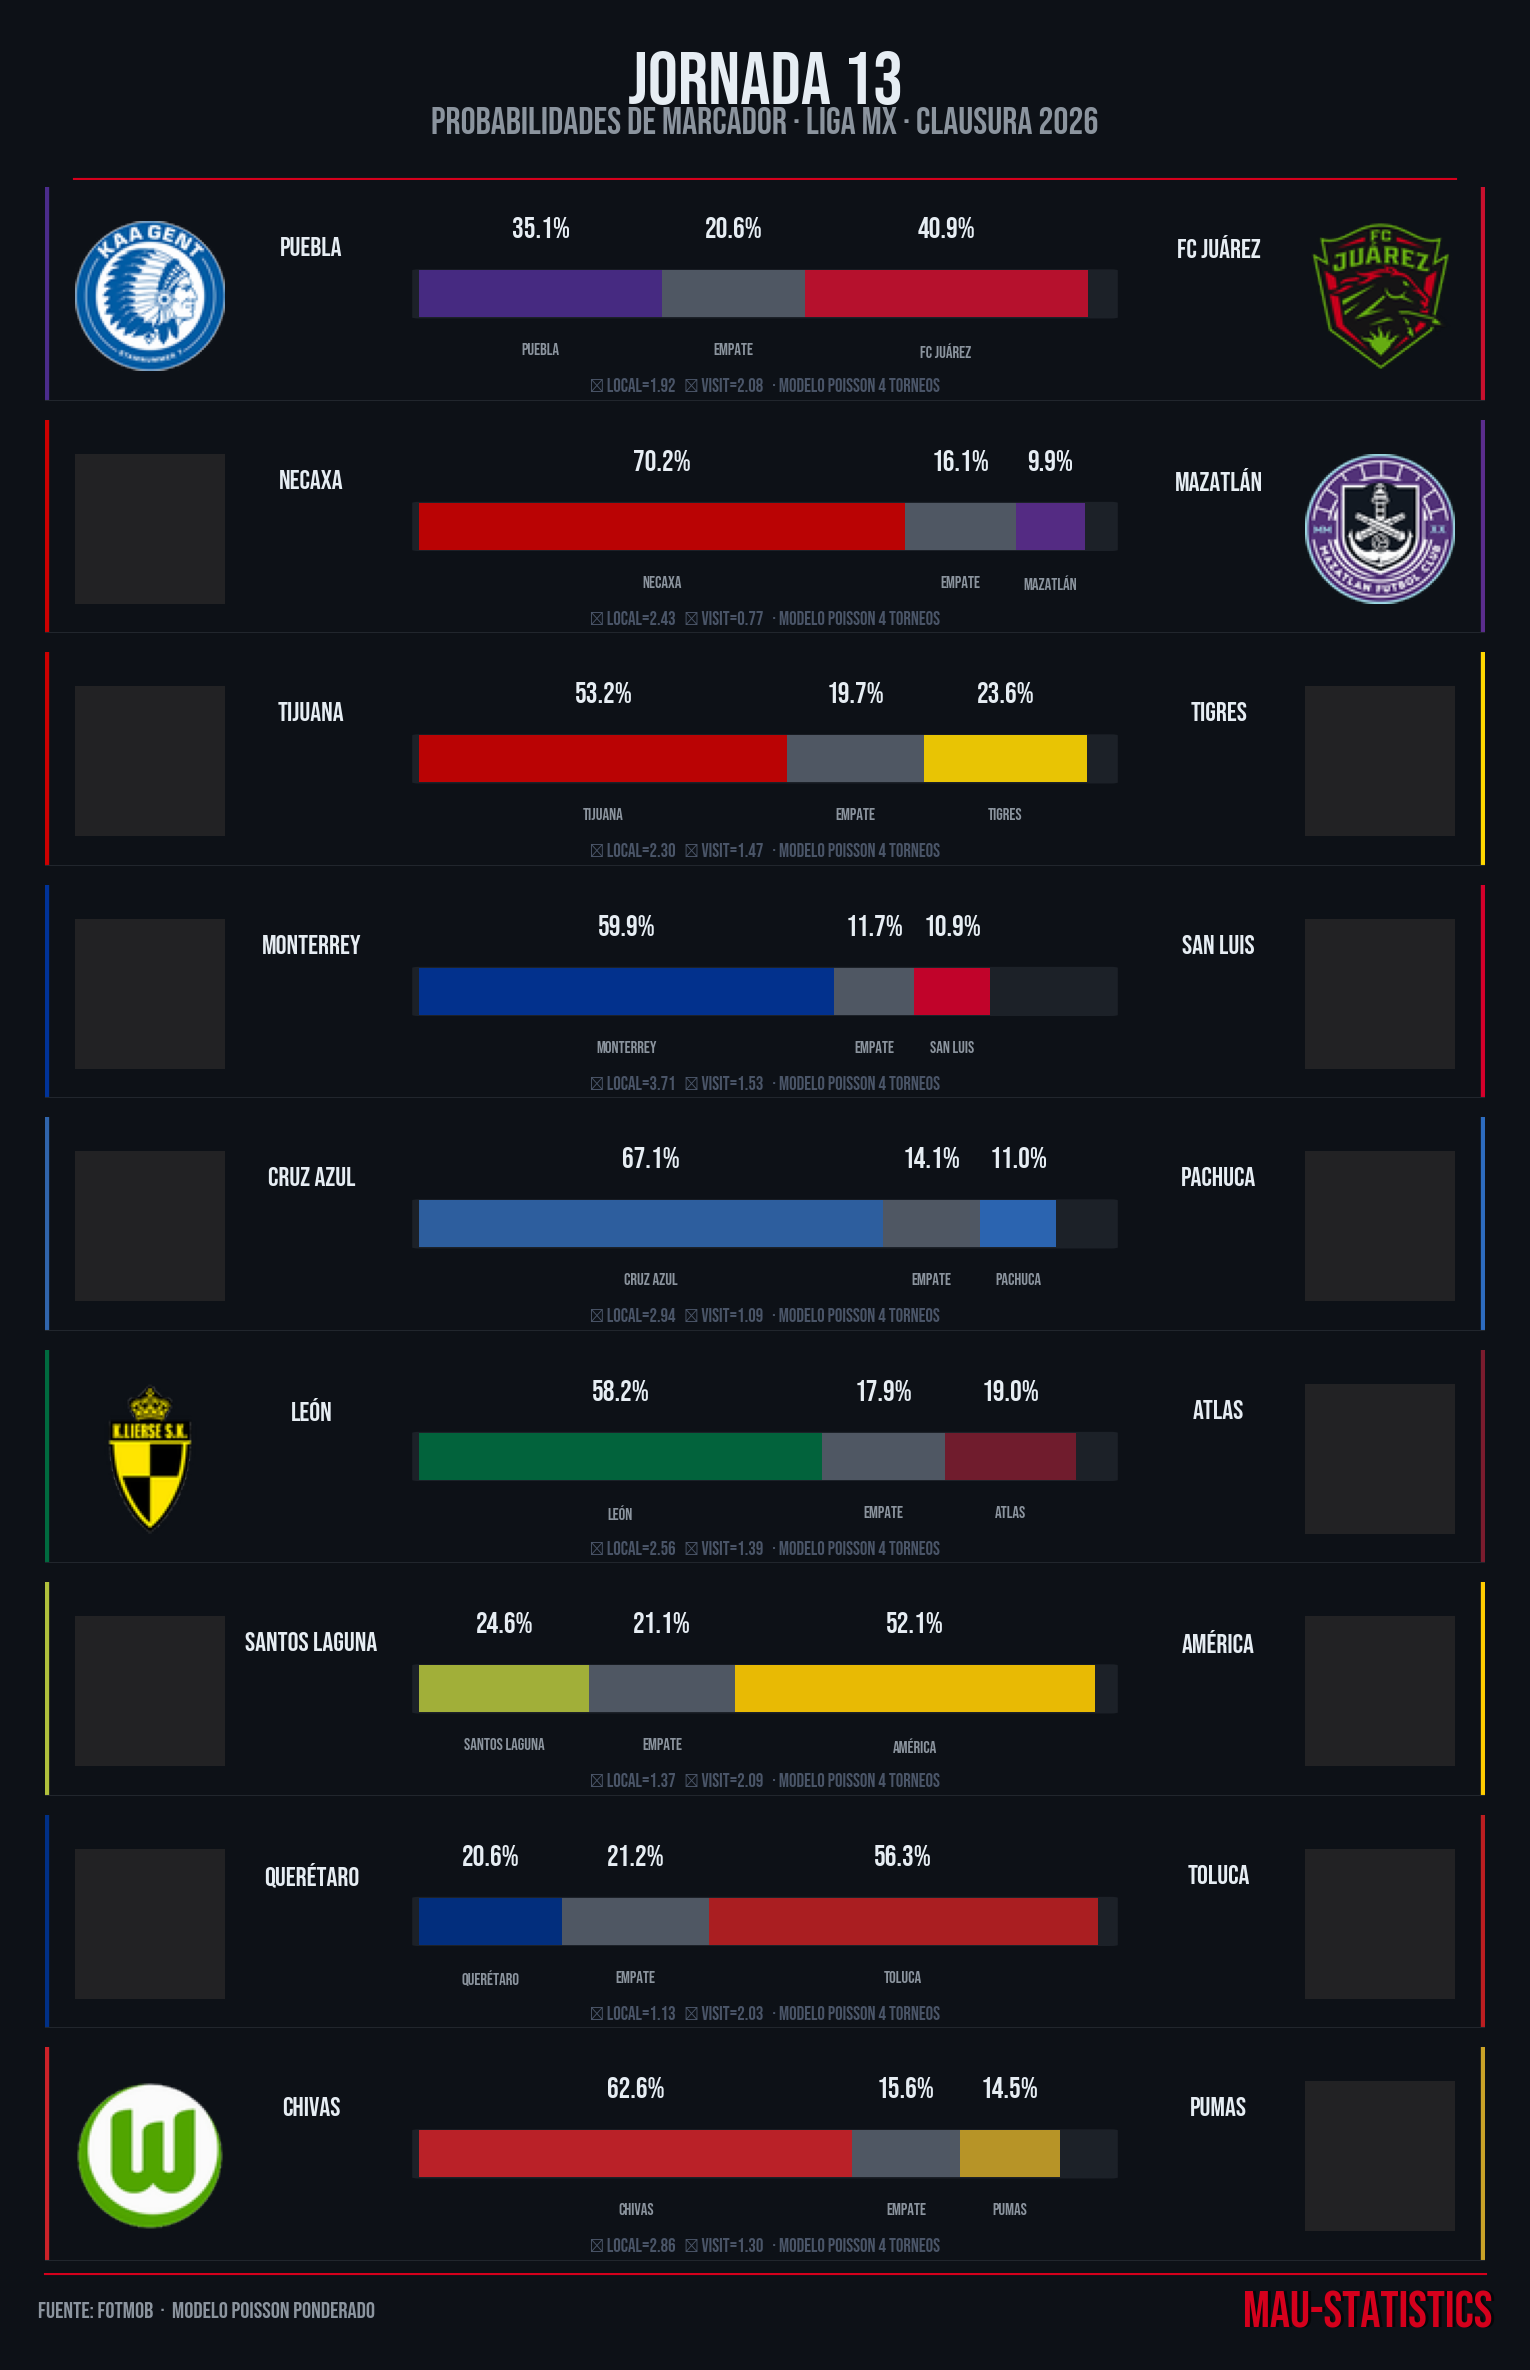
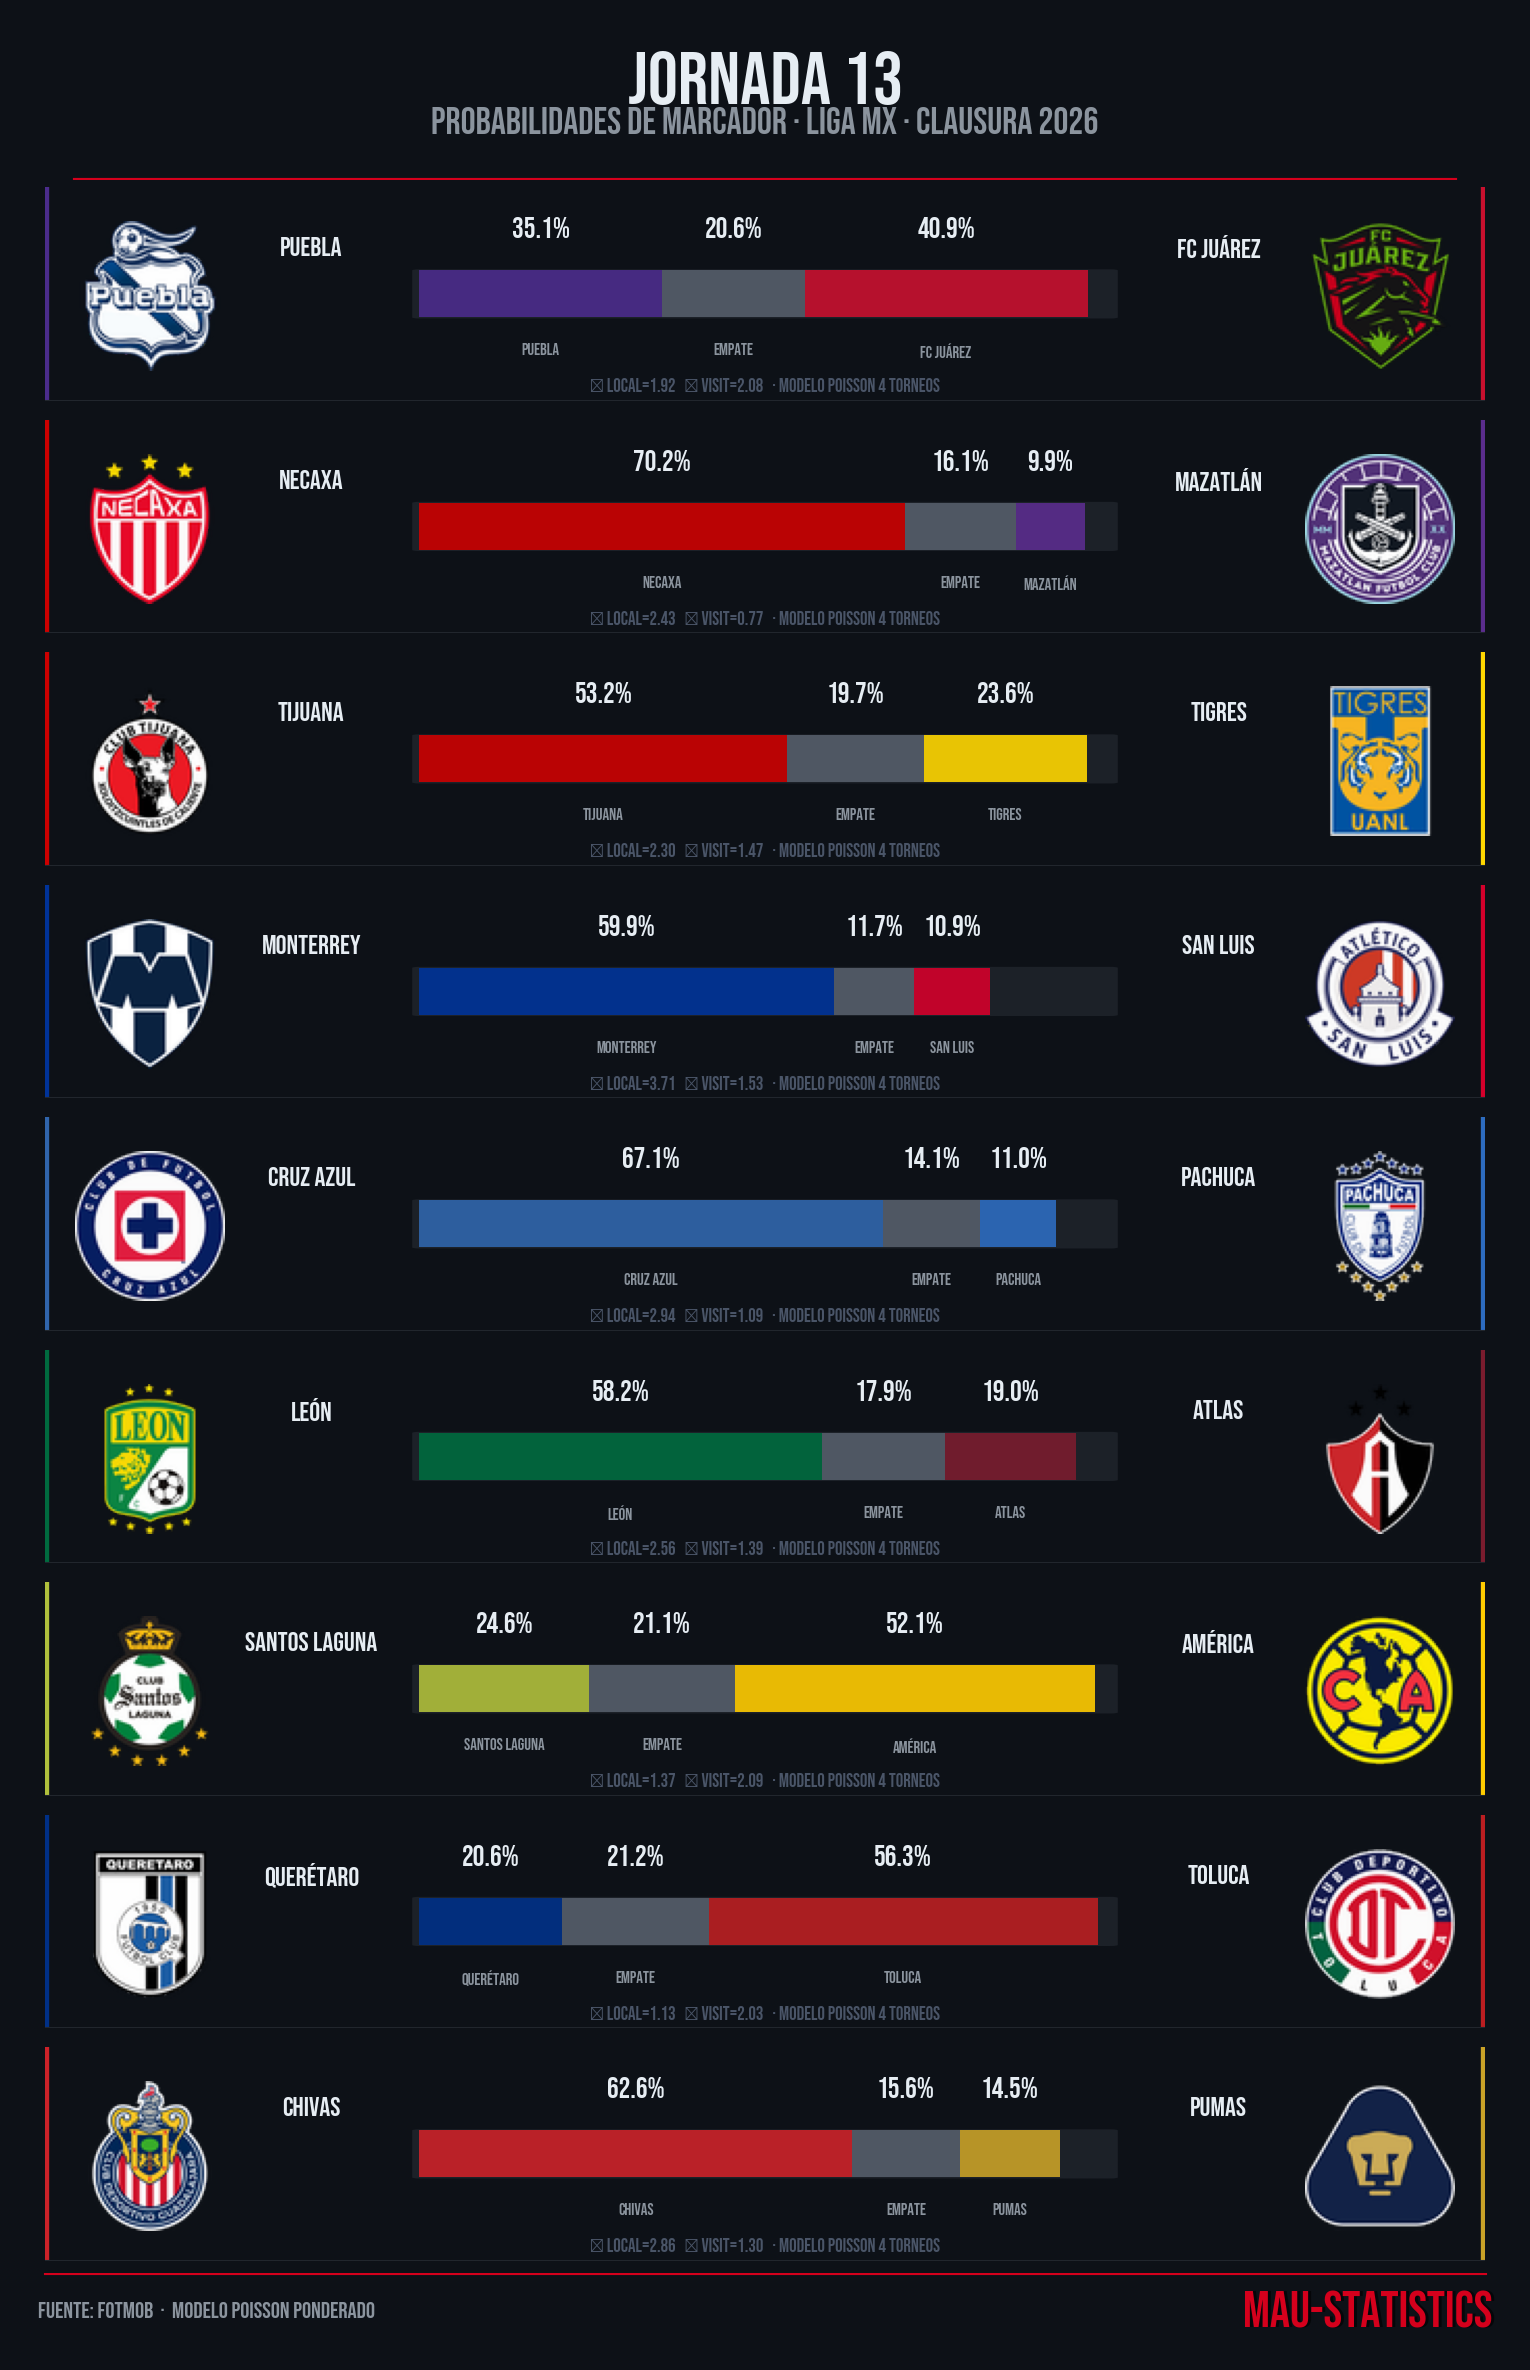
fix: escudos correctos en resumen jornada 13
- TEAM_IDS en 12_resumen_jornada.py corregidos con IDs reales de FotMob
  (los anteriores apuntaban a equipos europeos, ej. Puebla→KAA Gent, Chivas→Wolfsburg)
- Caché cambiada de shield_{id}.png → {id}.png (misma ruta que script 11)
- Descargado escudo de Querétaro (ID 1943, único que faltaba)
- Regenerado resumen_jornada13.png con 18 escudos correctos

diff --git a/scripts/12_resumen_jornada.py b/scripts/12_resumen_jornada.py
@@ -79,24 +79,24 @@ TEAM_COLORS = {
 }
 
 TEAM_IDS = {
-    'América':       159063,
-    'Atlas':         8733,
-    'Chivas':        8721,
-    'Cruz Azul':     8725,
+    'América':       6576,
+    'Atlas':         6577,
+    'Chivas':        7807,
+    'Cruz Azul':     6578,
     'FC Juárez':     649424,
-    'León':          9989,
+    'León':          1841,
     'Mazatlán':      1170234,
-    'Monterrey':     8730,
-    'Necaxa':        8728,
-    'Pachuca':       8726,
-    'Puebla':        9991,
-    'Pumas':         8731,
-    'Querétaro':     8735,
-    'San Luis':      159061,
-    'Santos Laguna': 8734,
-    'Tigres':        8729,
-    'Tijuana':       8736,
-    'Toluca':        8727,
+    'Monterrey':     7849,
+    'Necaxa':        1842,
+    'Pachuca':       7848,
+    'Puebla':        7847,
+    'Pumas':         1946,
+    'Querétaro':     1943,
+    'San Luis':      6358,
+    'Santos Laguna': 7857,
+    'Tigres':        8561,
+    'Tijuana':       162418,
+    'Toluca':        6618,
 }
 
 _ALIAS = {
@@ -229,7 +229,7 @@ def get_shield(canonical_name, size=72):
     tid = TEAM_IDS.get(canonical_name)
     if tid is None:
         return _blank_shield(size)
-    cache = IMG_DIR / f'shield_{tid}.png'
+    cache = IMG_DIR / f'{tid}.png'
     if not cache.exists():
         url = f'https://images.fotmob.com/image_resources/logo/teamlogo/{tid}.png'
         try:
